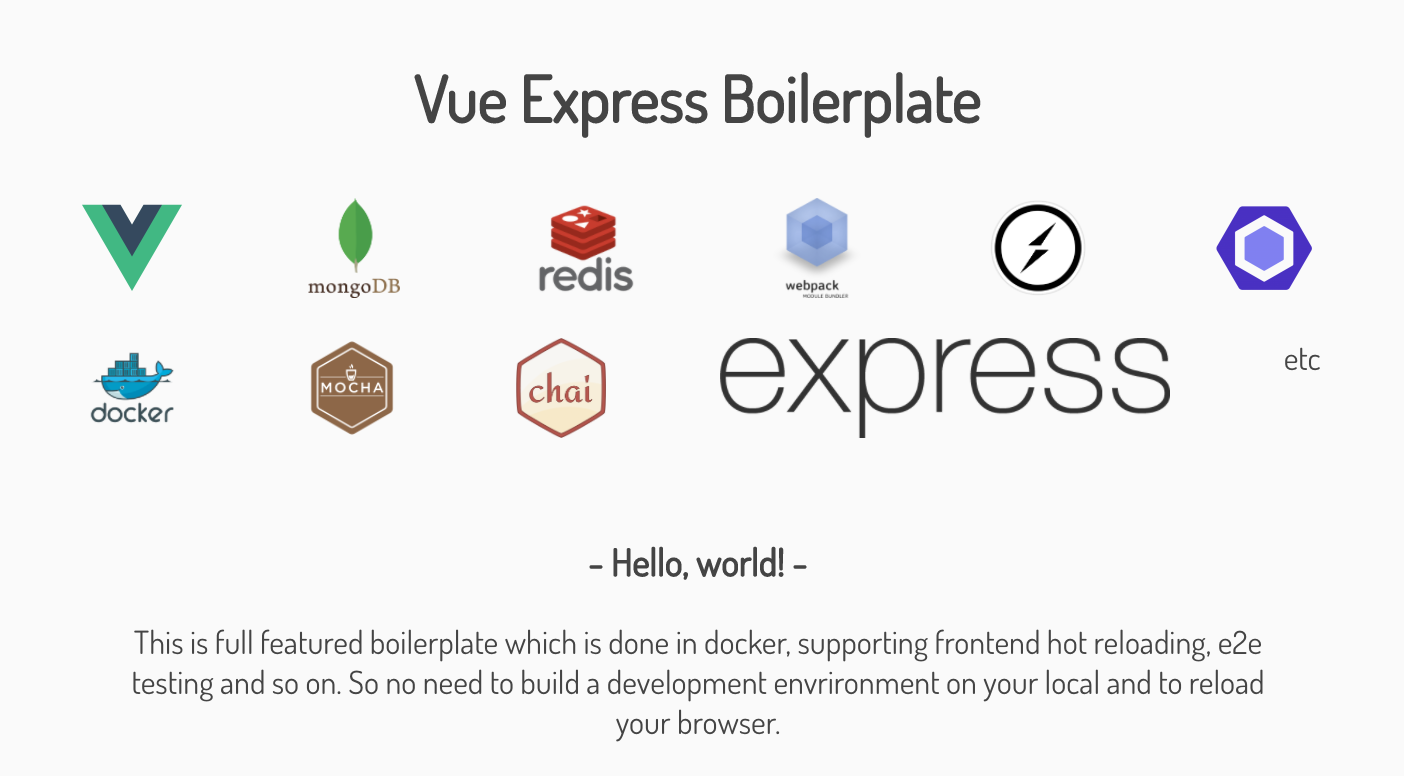
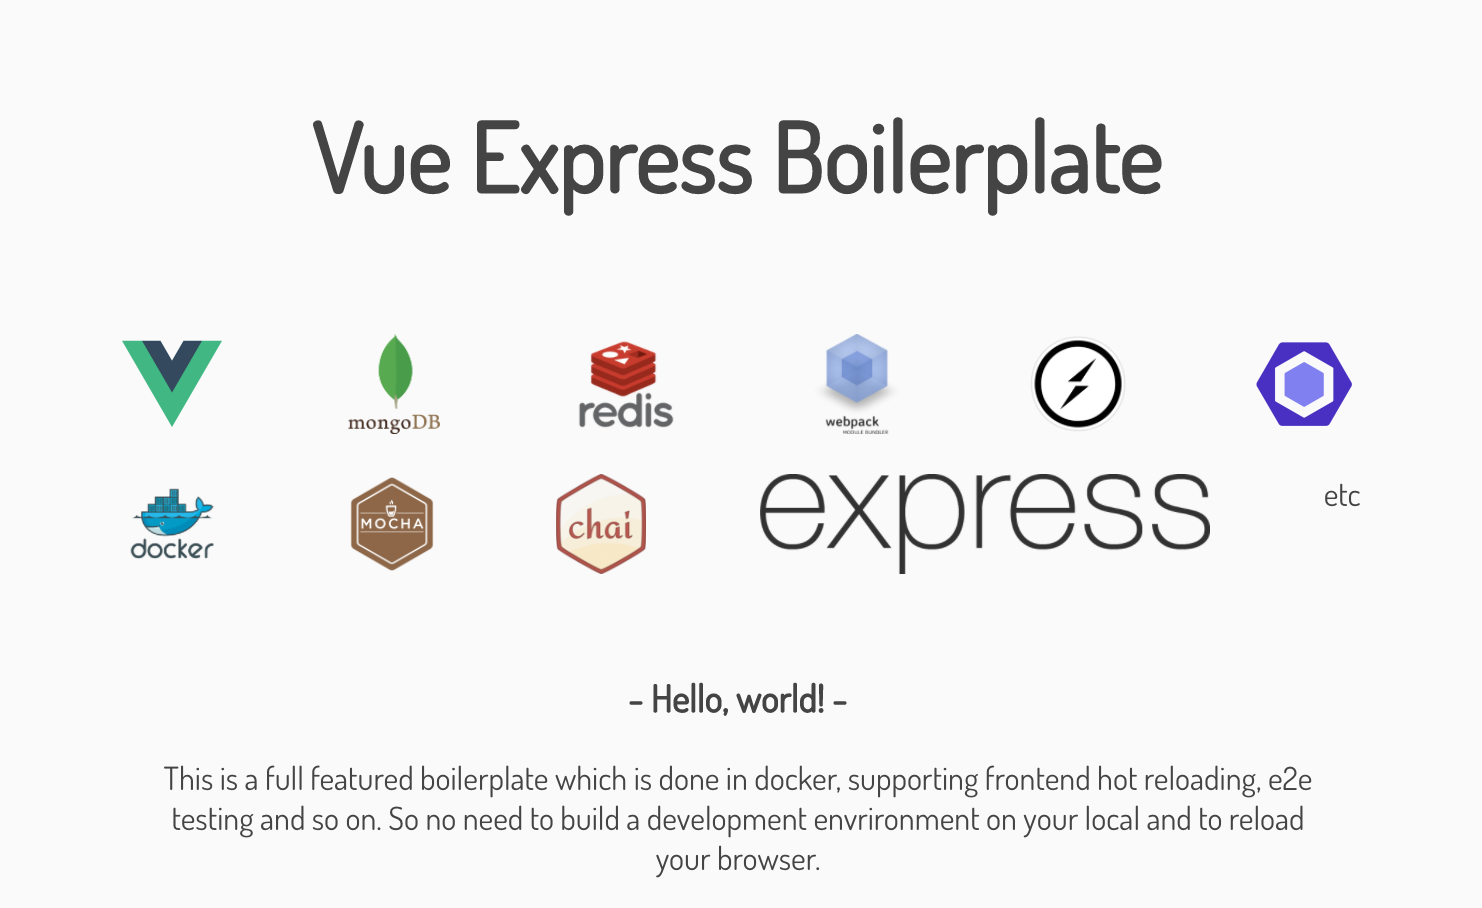
fix and replace title.png

diff --git a/src/client/pages/RootPage.vue b/src/client/pages/RootPage.vue
@@ -20,7 +20,7 @@
       h3.section-title - Hello, world! -
       .section-body
         p
-          | This is full featured boilerplate which is done in docker,
+          | This is a full featured boilerplate which is done in docker,
           | supporting frontend hot reloading, e2e testing and so on.
           | So no need to build a development envrironment on your local and to reload your browser.
         p
@@ -86,8 +86,9 @@ export default {
   -webkit-font-smoothing: antialiased;
 
   .title {
-    margin-top: 30px;
-    margin-bottom: 30px;
+    margin-top: 60px;
+    margin-bottom: 60px;
+    font-size: 300%;
   }
 
   .section-title {
